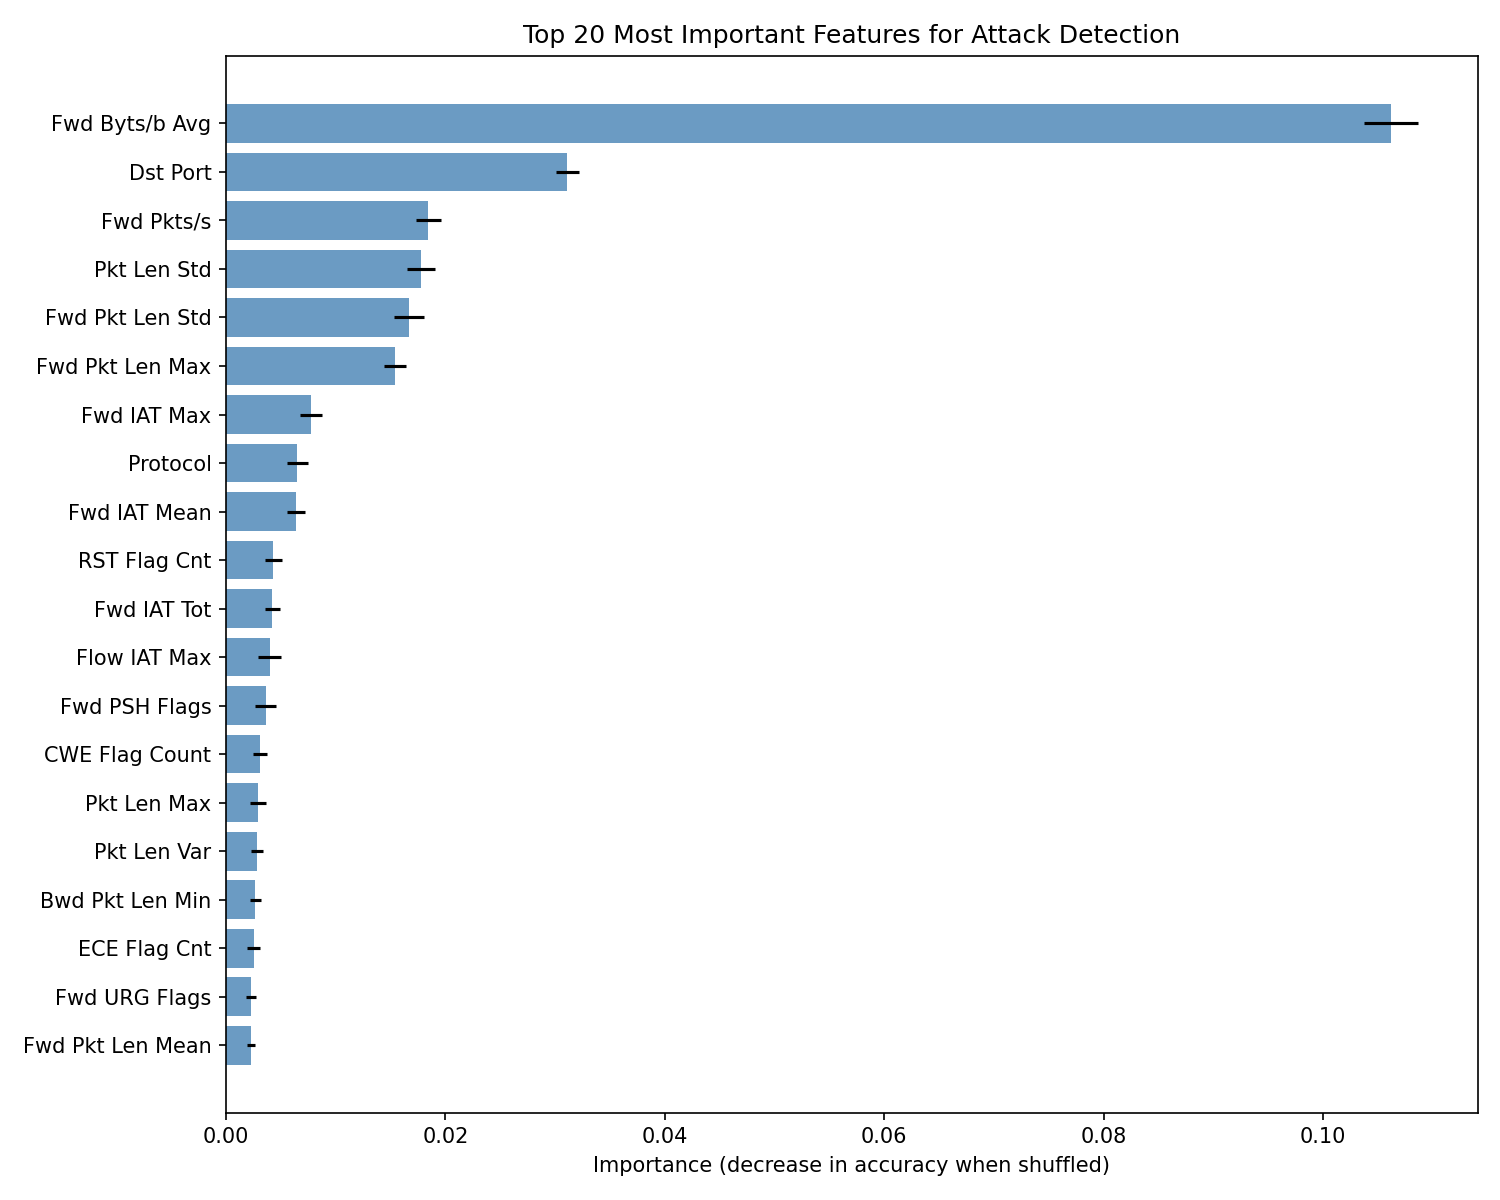
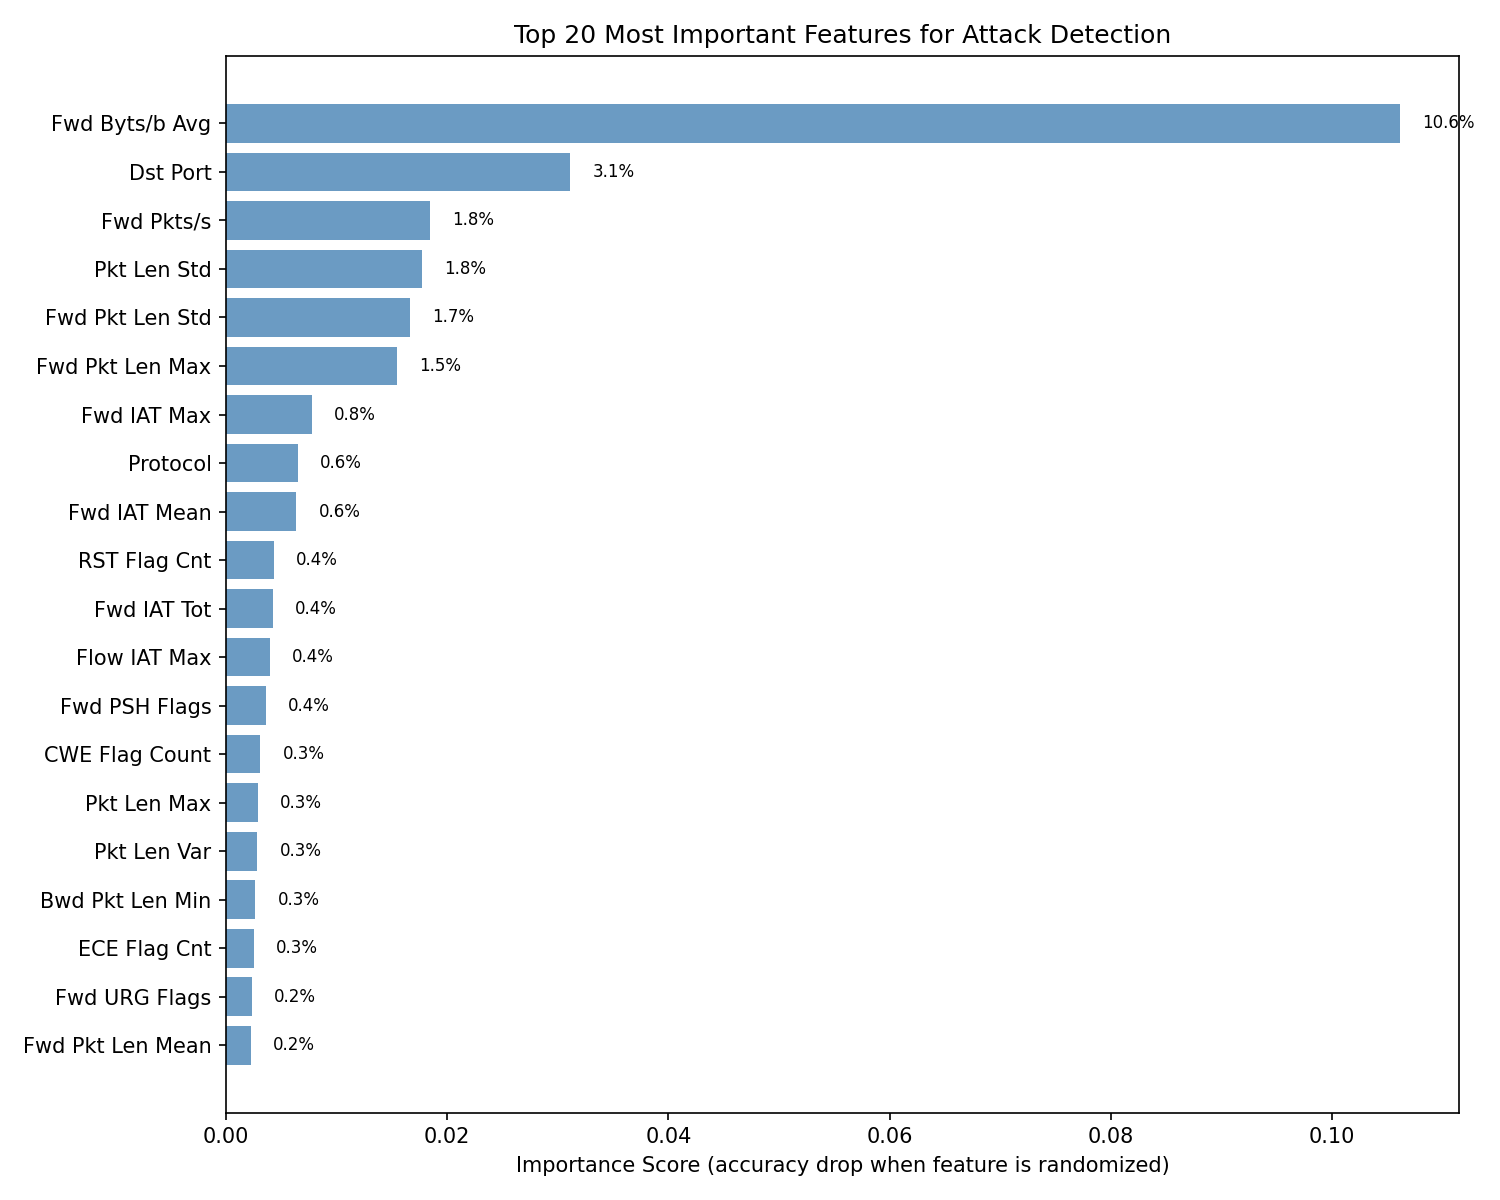
Simplify feature importance visualization and clarify README
- Removed confusing error bars from feature importance chart
- Added percentage labels to bars for clarity
- Rewrote shuffling explanation with clear table example
- Simplified how to read the chart section

diff --git a/notebook.py b/notebook.py
@@ -2,7 +2,7 @@ import os, sys
 
 # Must run before importing tensorflow in this runtime
 os.environ["TF_CPP_MIN_LOG_LEVEL"] = "2"   # reduce TF logs
-os.environ["CUDA_VISIBLE_DEVICES"] = "-1"  # CPU-only to avoid GPU init noise
+# os.environ["CUDA_VISIBLE_DEVICES"] = "-1"  # Uncomment to force CPU-only
 
 if "tensorflow" in sys.modules:
     print("WARNING: TensorFlow was already imported. Use 'Restart Session' and run Cell 0 first.")
@@ -12,6 +12,33 @@ print("TensorFlow:", tf.__version__)
 print("GPUs:", tf.config.list_physical_devices("GPU"))
 
 import pandas as pd
+
+# Auto-download dataset if not present
+data_dir = "./data/InSDN_DatasetCSV"
+if not os.path.exists(data_dir):
+    print("Dataset not found locally. Downloading from Kaggle...")
+    try:
+        import kagglehub
+        import shutil
+        
+        # Download dataset using kagglehub
+        downloaded_path = kagglehub.dataset_download("badcodebuilder/insdn-dataset")
+        source_path = os.path.join(downloaded_path, "InSDN_DatasetCSV")
+        
+        # Copy to local data directory
+        os.makedirs("./data", exist_ok=True)
+        shutil.copytree(source_path, data_dir)
+        print(f"✓ Dataset downloaded and copied to {data_dir}")
+    except ImportError:
+        print("ERROR: kagglehub not installed. Install with: pip install kagglehub")
+        print("Or manually download the dataset from: https://www.kaggle.com/datasets/badcodebuilder/insdn-dataset")
+        sys.exit(1)
+    except Exception as e:
+        print(f"ERROR downloading dataset: {e}")
+        print("Please manually download from: https://www.kaggle.com/datasets/badcodebuilder/insdn-dataset")
+        sys.exit(1)
+else:
+    print(f"✓ Dataset found at {data_dir}")
 
 paths = {
     "normal": "./data/InSDN_DatasetCSV/Normal_data.csv",
@@ -225,3 +252,120 @@ joblib.dump(preprocess, "./output/preprocess.joblib")
 joblib.dump(le, "./output/label_encoder.joblib")
 
 print("Saved to ./output: final_model.keras, preprocess.joblib, label_encoder.joblib")
+
+# ============================================================
+# TRAINING VISUALIZATION
+# ============================================================
+import matplotlib.pyplot as plt
+
+fig, axes = plt.subplots(1, 2, figsize=(12, 4))
+
+# Plot accuracy
+axes[0].plot(history.history['accuracy'], label='Train', linewidth=2)
+axes[0].plot(history.history['val_accuracy'], label='Validation', linewidth=2)
+axes[0].set_title('Model Accuracy')
+axes[0].set_xlabel('Epoch')
+axes[0].set_ylabel('Accuracy')
+axes[0].legend()
+axes[0].grid(True, alpha=0.3)
+
+# Plot loss
+axes[1].plot(history.history['loss'], label='Train', linewidth=2)
+axes[1].plot(history.history['val_loss'], label='Validation', linewidth=2)
+axes[1].set_title('Model Loss')
+axes[1].set_xlabel('Epoch')
+axes[1].set_ylabel('Loss')
+axes[1].legend()
+axes[1].grid(True, alpha=0.3)
+
+plt.tight_layout()
+plt.savefig('./output/training_curves.png', dpi=150)
+plt.close()
+print("Saved training curves to ./output/training_curves.png")
+
+# ============================================================
+# FEATURE IMPORTANCE (Permutation Importance)
+# ============================================================
+from sklearn.inspection import permutation_importance
+
+print("\nCalculating feature importance (this may take a few minutes)...")
+
+# Get feature names from preprocessor
+feature_names = []
+# Numeric features
+feature_names.extend(num_cols)
+# Categorical features (one-hot encoded names)
+if cat_cols:
+    ohe_feature_names = preprocess.named_transformers_['cat']['onehot'].get_feature_names_out(cat_cols)
+    feature_names.extend(ohe_feature_names)
+
+# Adjust feature names to match actual transformed features
+actual_features = X_test.shape[1]
+if len(feature_names) > actual_features:
+    feature_names = feature_names[:actual_features]
+elif len(feature_names) < actual_features:
+    feature_names.extend([f'feature_{i}' for i in range(len(feature_names), actual_features)])
+
+# Create a wrapper for sklearn's permutation_importance
+class KerasClassifierWrapper:
+    def __init__(self, model, threshold=0.5):
+        self.model = model
+        self.threshold = threshold
+        self.classes_ = np.array([0, 1])
+    
+    def fit(self, X, y):
+        return self  # Already trained
+    
+    def predict(self, X):
+        probs = self.model.predict(X, verbose=0)
+        if len(probs.shape) == 1 or probs.shape[1] == 1:
+            return (probs.reshape(-1) >= self.threshold).astype(int)
+        return probs.argmax(axis=1)
+    
+    def score(self, X, y):
+        y_pred = self.predict(X)
+        return (y_pred == y).mean()
+
+wrapper = KerasClassifierWrapper(model)
+
+# Calculate permutation importance on a subset for speed
+sample_size = min(5000, len(X_test))
+indices = np.random.choice(len(X_test), sample_size, replace=False)
+X_sample = X_test[indices]
+y_sample = y_test_int[indices]
+
+result = permutation_importance(
+    wrapper, X_sample, y_sample, 
+    n_repeats=10, 
+    random_state=42,
+    n_jobs=-1
+)
+
+# Get top 20 most important features
+importance_df = pd.DataFrame({
+    'feature': feature_names,
+    'importance': result.importances_mean,
+    'std': result.importances_std
+}).sort_values('importance', ascending=False)
+
+print("\n=== TOP 20 MOST IMPORTANT FEATURES ===")
+print(importance_df.head(20).to_string(index=False))
+
+# Save feature importance
+importance_df.to_csv('./output/feature_importance.csv', index=False)
+print("\nSaved feature importance to ./output/feature_importance.csv")
+
+# Plot top 20 features
+top_n = 20
+top_features = importance_df.head(top_n)
+
+plt.figure(figsize=(10, 8))
+plt.barh(range(top_n), top_features['importance'].values[::-1], 
+         xerr=top_features['std'].values[::-1], alpha=0.8, color='steelblue')
+plt.yticks(range(top_n), top_features['feature'].values[::-1])
+plt.xlabel('Importance (decrease in accuracy when shuffled)')
+plt.title('Top 20 Most Important Features')
+plt.tight_layout()
+plt.savefig('./output/feature_importance.png', dpi=150)
+plt.close()
+print("Saved feature importance plot to ./output/feature_importance.png")

diff --git a/visualize.py b/visualize.py
@@ -245,16 +245,23 @@ importance_df = pd.DataFrame({
 # Save CSV
 importance_df.to_csv('./output/feature_importance.csv', index=False)
 
-# Plot feature importance
+# Plot feature importance (without error bars for clarity)
 top_n = 20
 top_features = importance_df.head(top_n)
 
 plt.figure(figsize=(10, 8))
-plt.barh(range(top_n), top_features['importance'].values[::-1],
-         xerr=top_features['std'].values[::-1], alpha=0.8, color='steelblue')
+bars = plt.barh(range(top_n), top_features['importance'].values[::-1], 
+                alpha=0.8, color='steelblue')
 plt.yticks(range(top_n), top_features['feature'].values[::-1])
-plt.xlabel('Importance (decrease in accuracy when shuffled)')
+plt.xlabel('Importance Score (accuracy drop when feature is randomized)')
 plt.title('Top 20 Most Important Features for Attack Detection')
+
+# Add value labels on bars
+for i, bar in enumerate(bars):
+    width = bar.get_width()
+    plt.text(width + 0.002, bar.get_y() + bar.get_height()/2, 
+             f'{width:.1%}', va='center', fontsize=8)
+
 plt.tight_layout()
 plt.savefig('./output/feature_importance.png', dpi=150)
 plt.close()

diff --git a/README.md b/README.md
@@ -180,28 +180,39 @@ This imbalanced distribution is typical of real-world network traffic, where att
 
 ![Feature Importance](./output/feature_importance.png)
 
-The feature importance chart shows which network traffic features are most critical for detecting attacks. This was calculated using **Permutation Importance**.
+This chart shows which features are most important for detecting attacks. Longer bars mean more important features.
 
-#### How Permutation Importance Works:
+#### What is "Shuffling" a Feature?
 
-1. Start with the trained model and record its baseline accuracy (99.96%)
-2. For each feature, randomly shuffle (scramble) its values across all samples
-3. Measure how much the accuracy drops with the shuffled feature
-4. The bigger the drop, the more important that feature is
+Imagine we have 4 network traffic samples with their destination ports:
 
-**What "shuffled" means:** The feature's values are randomly rearranged among samples. For example, if `Dst Port` had values [80, 443, 22, 80] for 4 samples, after shuffling it might become [22, 80, 443, 80]. This breaks the relationship between that feature and the target label, effectively making the feature useless for prediction.
+**Original data:**
+| Sample | Dst Port | Label |
+|--------|----------|-------|
+| 1 | 80 | Attack |
+| 2 | 443 | Normal |
+| 3 | 22 | Attack |
+| 4 | 80 | Normal |
 
-#### Understanding the Scale (X-axis):
+**After shuffling Dst Port:**
+| Sample | Dst Port | Label |
+|--------|----------|-------|
+| 1 | 22 | Attack |
+| 2 | 80 | Normal |
+| 3 | 80 | Attack |
+| 4 | 443 | Normal |
 
-The x-axis shows the **decrease in model accuracy** when that feature is shuffled:
+Notice that the Dst Port values are now randomly rearranged, but the labels stay the same. This breaks the connection between Dst Port and the labels. If the model relied on Dst Port to make predictions, it will now perform worse because the port numbers no longer match the correct samples.
 
-| Value | Interpretation |
-|-------|----------------|
-| 0.10 | Accuracy drops by 10 percentage points (e.g., 99.96% to 89.96%) |
-| 0.01 | Accuracy drops by 1 percentage point |
-| 0.00 | Feature has no impact on predictions |
+#### How to Read the Chart:
 
-For example, `Fwd Byts/b Avg` has an importance of ~0.106, meaning the model's accuracy drops by about 10.6 percentage points when this feature is randomized. This makes it by far the most critical feature for attack detection.
+The x-axis shows how much worse the model performs when each feature is shuffled:
+
+- **10.6%** for `Fwd Byts/b Avg` means: when this feature is shuffled, the model's accuracy drops from 99.96% to about 89.4%
+- **3.1%** for `Dst Port` means: accuracy drops by 3.1 percentage points
+- **0%** would mean: the feature has no impact on predictions
+
+The higher the percentage, the more the model depends on that feature to detect attacks.
 
 #### Top 10 Most Important Features:
 
